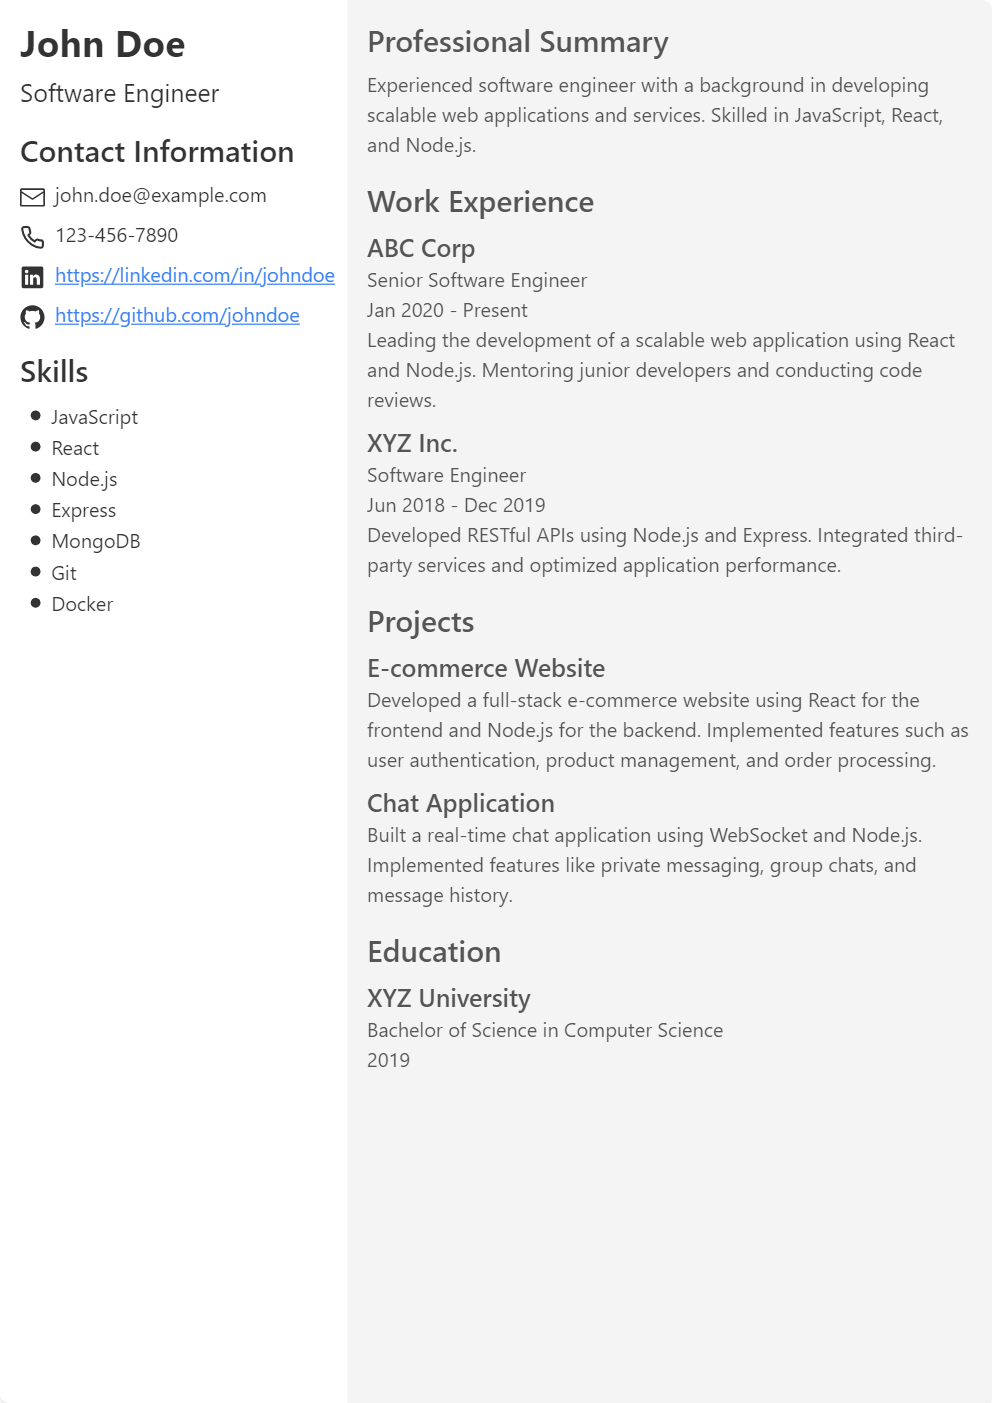
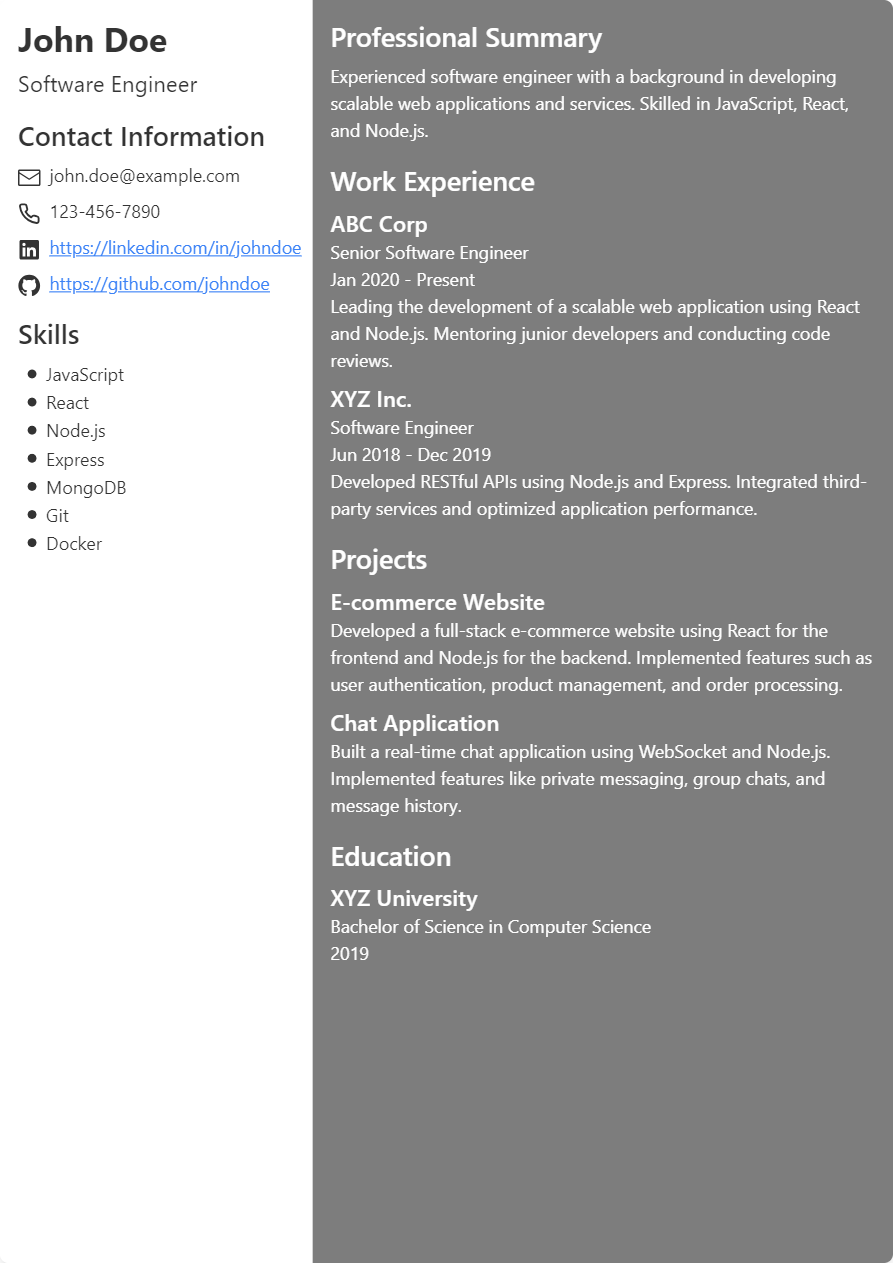
Added more layouts and color selector for selected template

diff --git a/src/components/templates/standard/ResumeForm.tsx b/src/components/templates/standard/ResumeForm.tsx
@@ -7,7 +7,7 @@ import {
 } from "react-hook-form";
 import { zodResolver } from "@hookform/resolvers/zod";
 import { z } from "zod";
-import template from "../../../json/template_1.json";
+import template from "../../../json/form.json";
 import { Cross1Icon, TrashIcon } from "@radix-ui/react-icons";
 import {
   FormControl,

diff --git a/src/components/templates/standard/Standard.tsx b/src/components/templates/standard/Standard.tsx
@@ -1,5 +1,5 @@
 import React, { useState, useEffect } from "react";
-import template from "../../../json/template_1.json";
+import template from "../../../json/form.json";
 import layouts from "../../../json/layout.json";
 import Skeleton from "react-loading-skeleton";
 import ResumeRender from "./ResumeRender";

diff --git a/src/components/templates/standard/ResumeRender.tsx b/src/components/templates/standard/ResumeRender.tsx
@@ -191,7 +191,7 @@ const ResumeRender: React.FC<ResumeRenderProps> = ({
         style={{
           width: "100%",
           maxWidth: "210mm",
-          height: `${isEditMode ? "100%" : "297mm"}`,
+          maxHeight: `${isEditMode ? "100%" : "297mm"}`,
         }}
       >
         {/* Resume content */}
